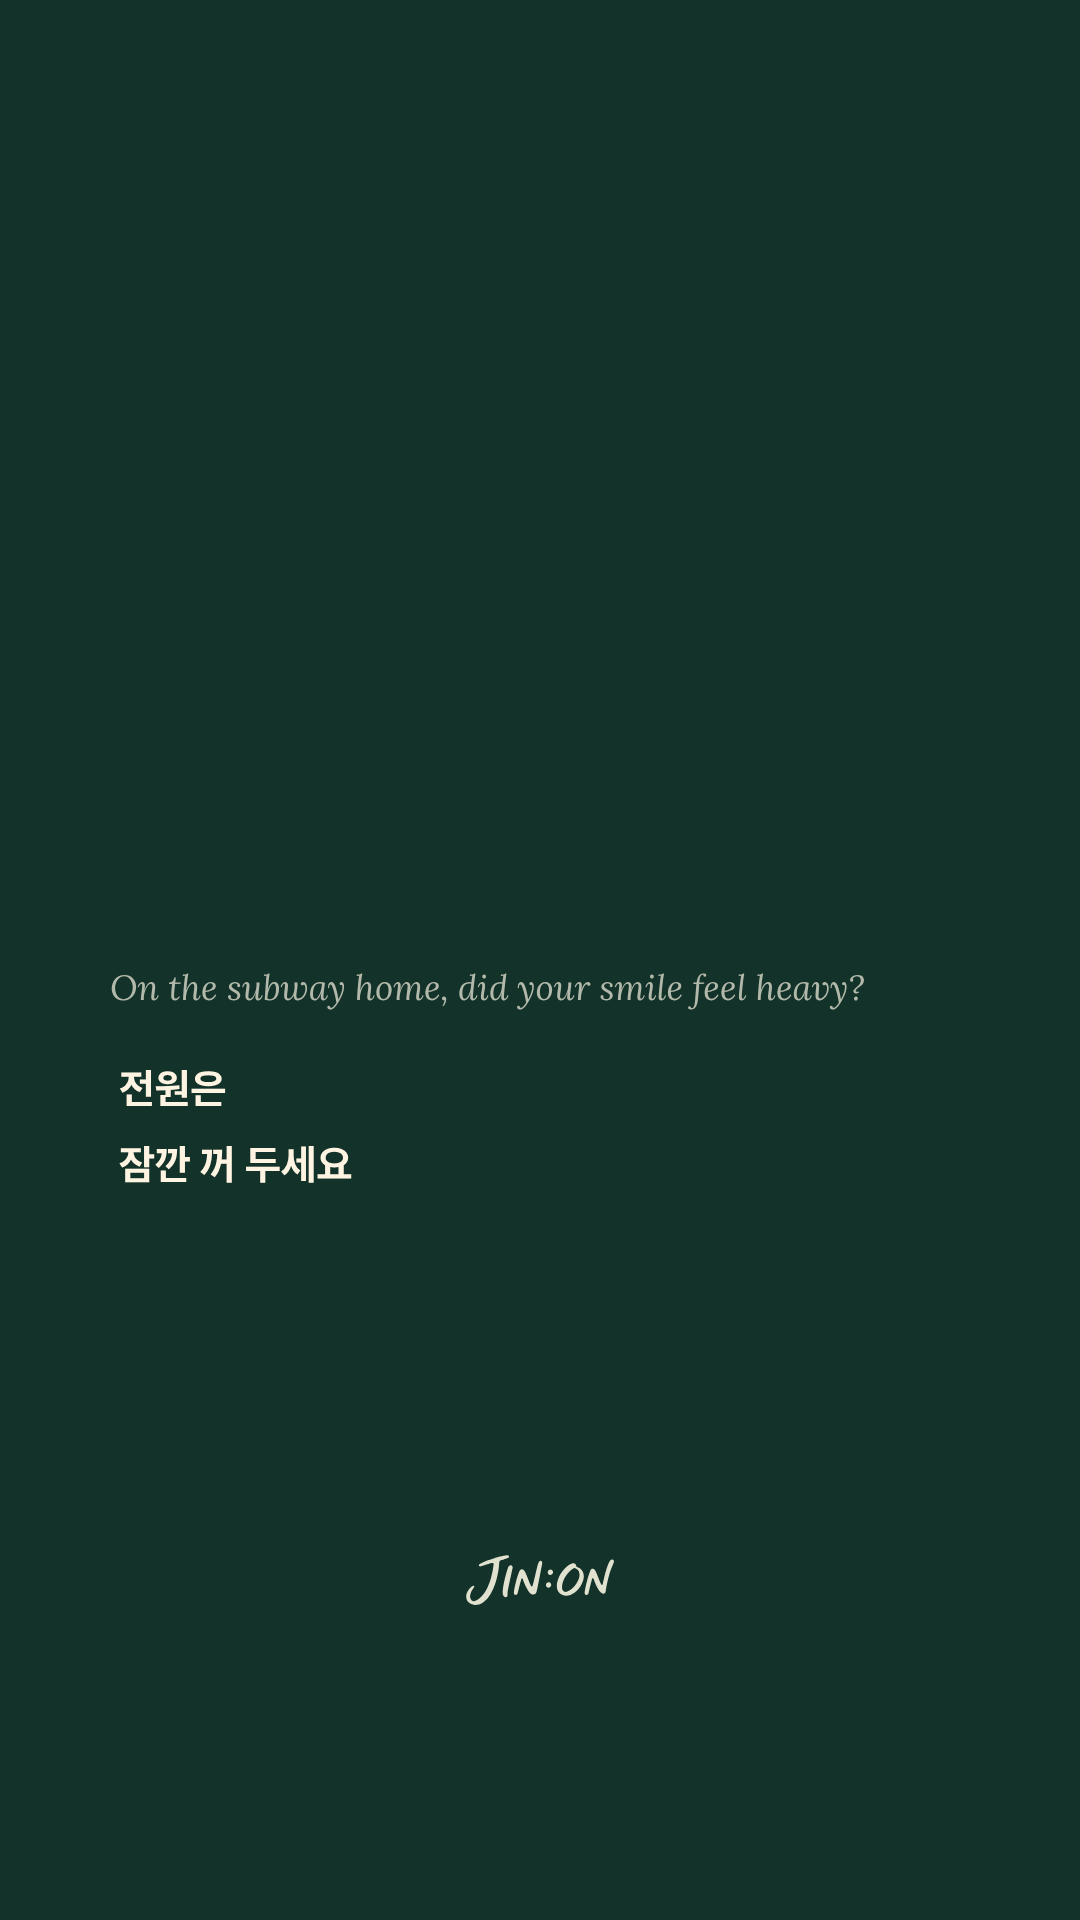
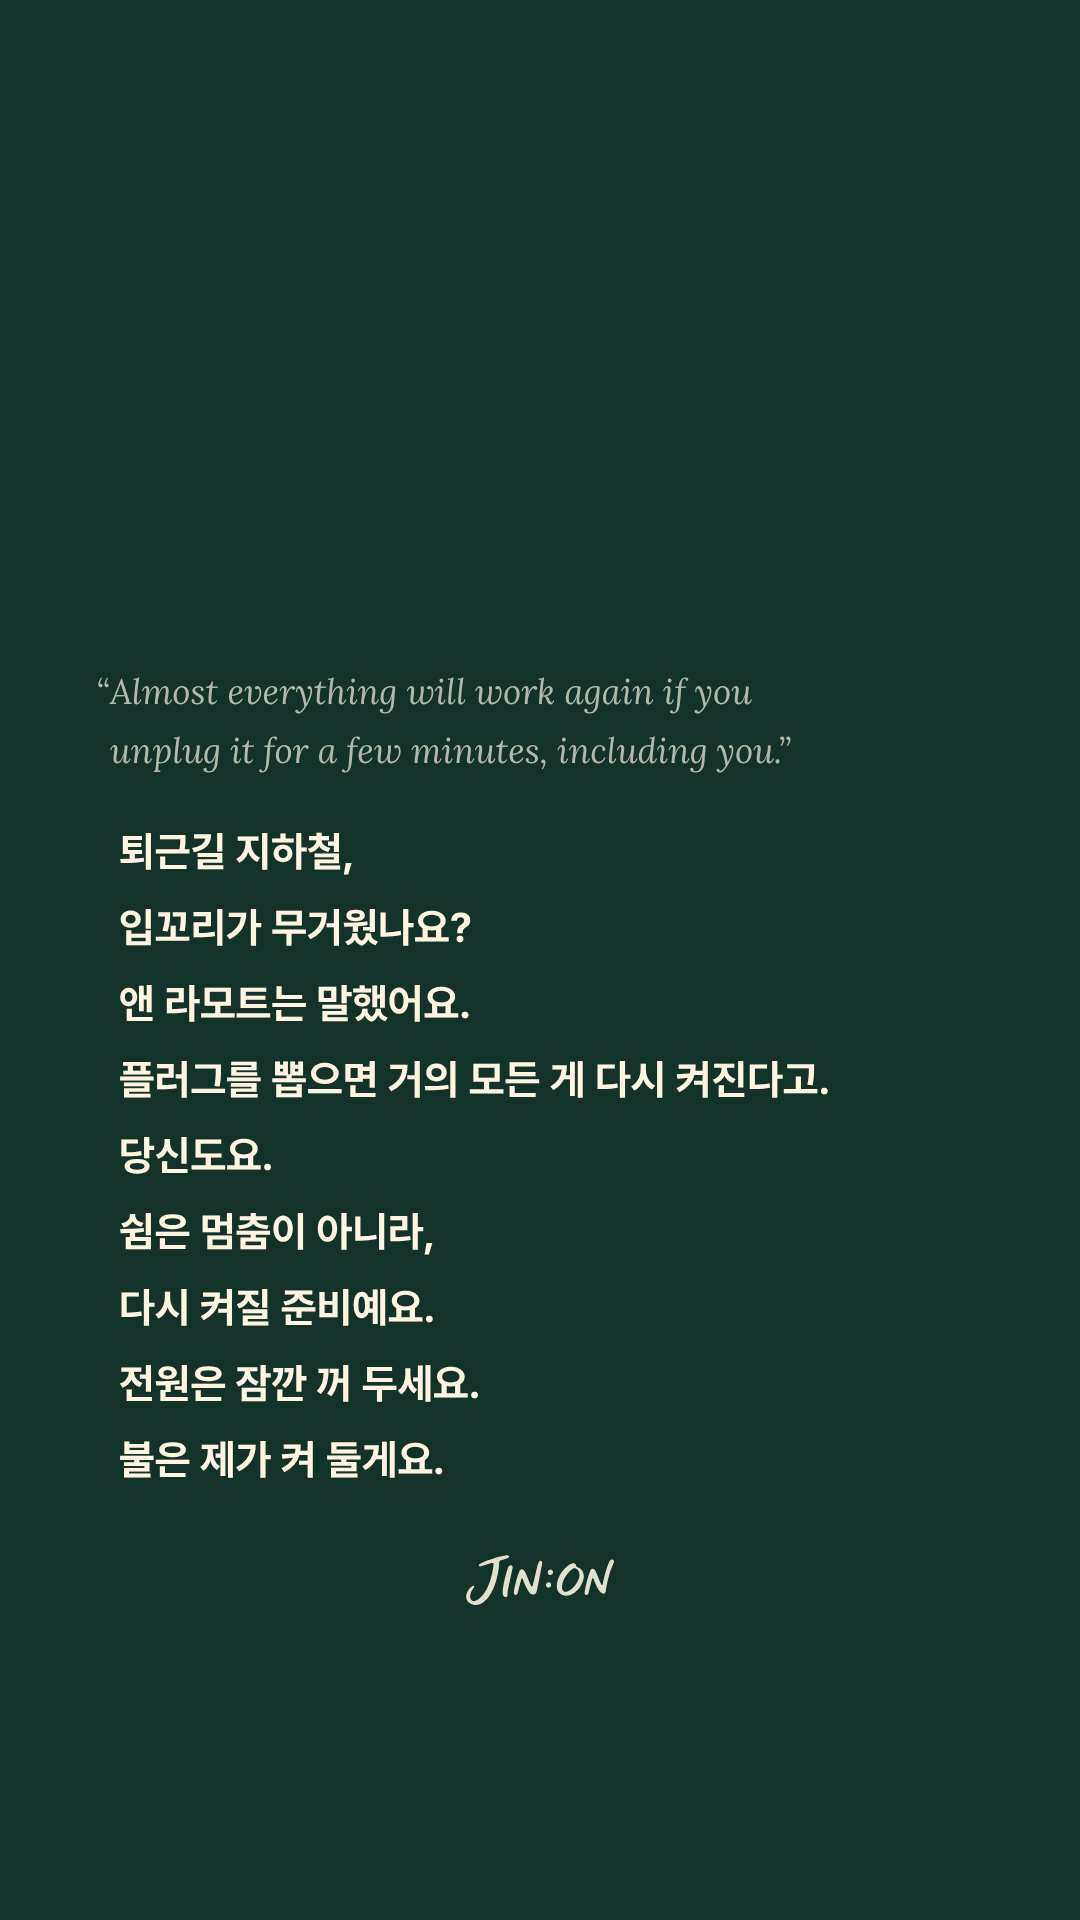
Put caption content (EN quote + KO script) on reel covers
Claude-Session: https://claude.ai/code/session_01H9w85ncDaq2ovk3gPJ4A6T

Changed region(s): [[0.0917, 0.4375, 0.5194, 0.7812], [0.0917, 0.3438, 0.7333, 0.4062], [0.5194, 0.5, 0.7944, 0.5938]]

diff --git a/publish/README.md b/publish/README.md
@@ -68,7 +68,7 @@
 
 ## 통일감 (프로필 그리드)
 
-- **릴스 탭**: 20개 표지가 모두 같은 디자인입니다(1080×1920, 딥 그린 배경, 영어 이탤릭 + 한글 굵은 고딕, 하단 중앙 로고). 인스타 그리드는 9:16 표지의 중앙 3:4만 보여 주는데, 글자와 로고를 그 안에 두어 잘리지 않습니다. 미리보기: `preview_reels_grid.png`
+- **릴스 탭**: 20개 표지가 모두 같은 디자인입니다(1080×1920, 딥 그린 배경, 영어 이탤릭 + 한글 굵은 고딕, 하단 중앙 로고). **표지에는 캡션 내용이 들어갑니다**: 위쪽에 영어 인용 원문, 아래쪽에 한글 대본 전체(일정표에 지정된 후킹 A/B → 명언 → 장면 → 반전 → 마지막 문장). 글이 길면 글자 크기가 자동으로 줄어듭니다. 인스타 그리드는 9:16 표지의 중앙 3:4만 보여 주는데, 글자와 로고를 그 안에 두어 잘리지 않습니다. 미리보기: `preview_reels_grid.png`
 - **게시물(캐러셀) 탭**: 20개 첫 장이 모두 위(그린)·아래(크림)로 나뉜 같은 디자인입니다(1080×1440, 3:4). 위에는 "~인 줄 알았다", 아래에는 반전 문장이 들어갑니다. 미리보기: `preview_posts_grid.png`
 
 ## 캐러셀 구성 (3:4, 샘플 디자인)
